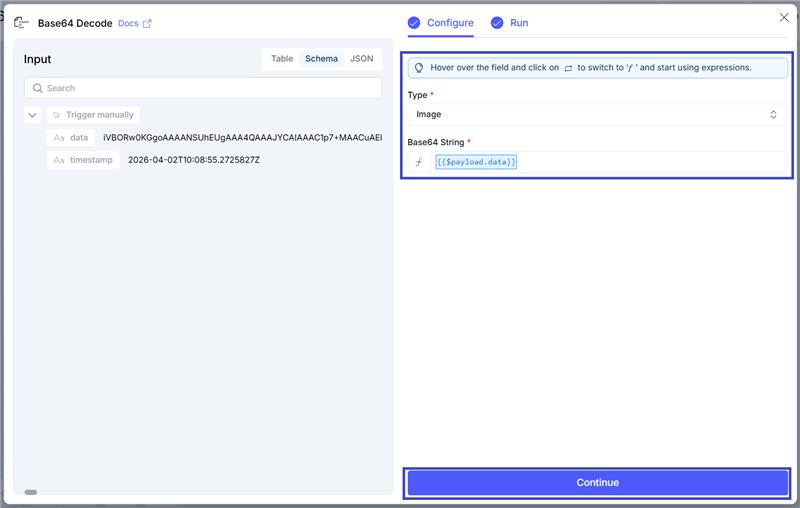
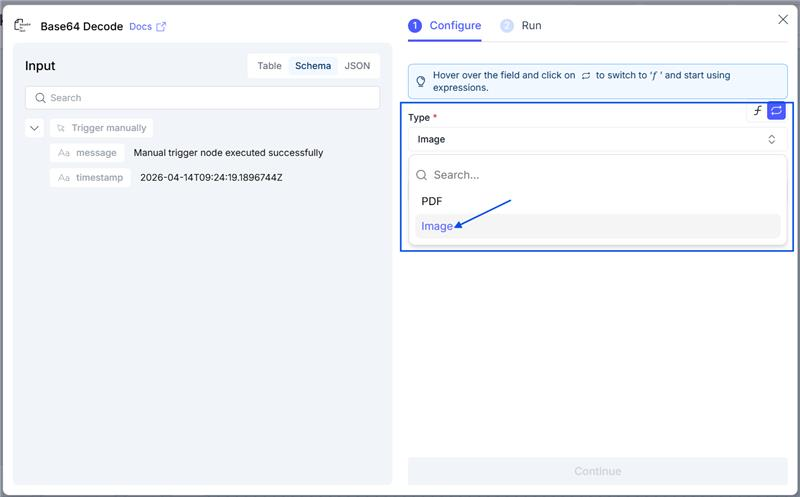
Update Base64 note text and screenshot

diff --git a/docs/platform/key_concepts/nodes/built_in_nodes/base64-decode.md b/docs/platform/key_concepts/nodes/built_in_nodes/base64-decode.md
@@ -17,23 +17,26 @@ The Base64 Decode node in APPSe AI is a built-in node that allows you to convert
 
 ## Configuration
 
-### Type
-
+### Steps to Use Different File Types in the Base64 Node
+ 
 Select the type of file you want to decode.
 
 <Tabs>
 <TabItem value="pdf" label="PDF" default>
 
-## Steps to Use the Base64 Node for PDF Files
+#### Steps to Use the Base64 Node for PDF Files
 
 3. Under Type, select the format of the file you want to decode.
 <img src="\img\platform\key-concepts\nodes\built-in\base64-decode\select-type.jpg" alt="select type" width="700"/>
 
-### Base64 String
-Enter or map the field containing the Base64-encoded string that you want to decode. Make sure the string is properly encoded — invalid or incomplete Base64 data will result in an error.
 
-4. In the Base64 String field, enter or map the field that contains the Base64 string.
+4. In the Base64 String field, enter or map the Base64-encoded string that you want to decode. Make sure the string is properly encoded — invalid or incomplete Base64 data will result in an error.
 <img src="\img\platform\key-concepts\nodes\built-in\base64-decode\continue.jpg" alt="continue" width="700"/>
+
+5. Click **Continue**, then run the node to decode the data.
+
+6. After execution, the decoded content will be available as output for the next node in your workflow.
+<img src="\img\platform\key-concepts\nodes\built-in\base64-decode\PDF-Output.jpg" alt="output" width="700"/>
 
 :::note
 
@@ -47,27 +50,24 @@ Use a valid Base64 string for the selected PDF file type (sample shown below).
 
 <img src="\img\platform\key-concepts\nodes\built-in\base64-decode\Input of PDF.jpg" width="700" />
 
-
-5. Click **Continue**, then run the node to decode the data.
-
-6. After execution, the decoded content will be available as output for the next node in your workflow.
-<img src="\img\platform\key-concepts\nodes\built-in\base64-decode\PDF-Output.jpg" alt="output" width="700"/>
-
 ----------------
 
 </TabItem>
 <TabItem value="image" label="Image">
 
-## Steps to Use the Base64 Node for Image Files
+#### Steps to Use the Base64 Node for Image Files
 
 3. Under Type, select the format of the file you want to decode.
 <img src="\img\platform\key-concepts\nodes\built-in\base64-decode\Base64N-IMGSLCT3.jpg" width="700" />
 
-### Base64 String
-Enter or map the field containing the Base64-encoded string that you want to decode. Make sure the string is properly encoded — invalid or incomplete Base64 data will result in an error.
+4. In the Base64 String field, enter or map the Base64-encoded string that you want to decode. Make sure the string is properly encoded — invalid or incomplete Base64 data will result in an error.
 
-4. In the Base64 String field, enter or map the field that contains the Base64 string.
 <img src="\img\platform\key-concepts\nodes\built-in\base64-decode\Base64N-CNTNUE5.jpg" width="700" />
+
+5. Click **Continue**, then run the node to decode the data.
+
+6. After execution, the decoded content will be available as output for the next node in your workflow.
+<img src="\img\platform\key-concepts\nodes\built-in\base64-decode\Base64N-Result6.jpg" width="700" />
 
 :::note
 The Base64 node supports the following image file types: **PNG, JPG, JPEG, GIF, BMP, WEBP**.
@@ -79,11 +79,6 @@ The Base64 node supports the following image file types: **PNG, JPG, JPEG, GIF, 
 Use a valid Base64 string for the selected Image file type (sample shown below).
 
 <img src="\img\platform\key-concepts\nodes\built-in\base64-decode\Image-Input.jpg" width="700" />
-
-5. Click **Continue**, then run the node to decode the data.
-
-6. After execution, the decoded content will be available as output for the next node in your workflow.
-<img src="\img\platform\key-concepts\nodes\built-in\base64-decode\Base64N-Result6.jpg" width="700" />
 
 </TabItem>
 </Tabs>